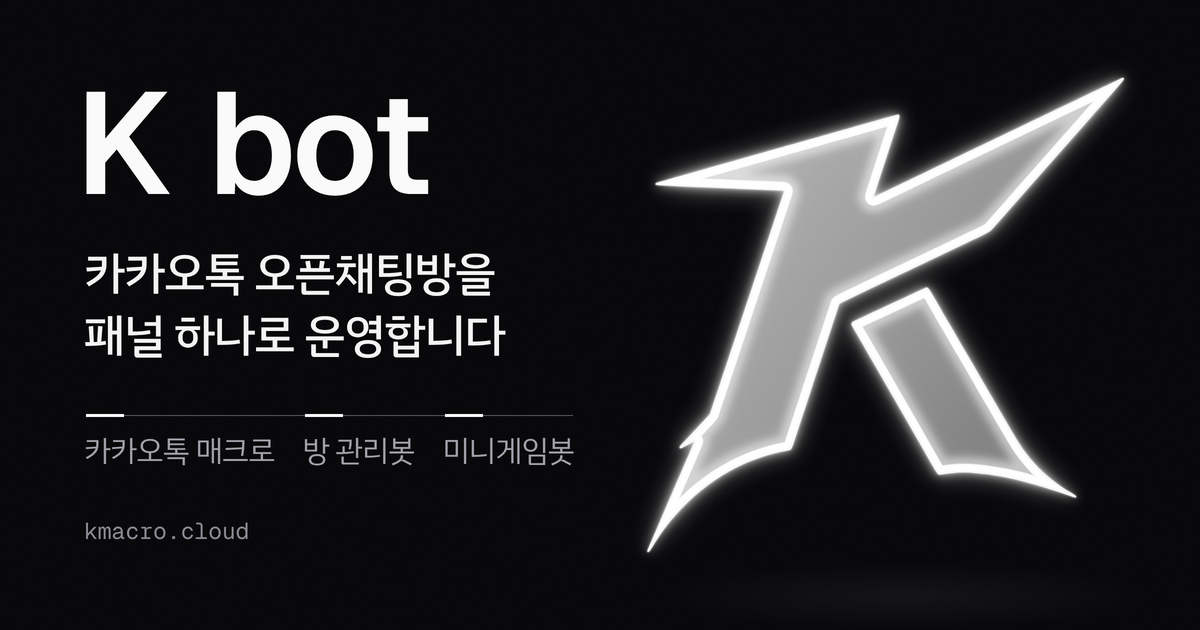
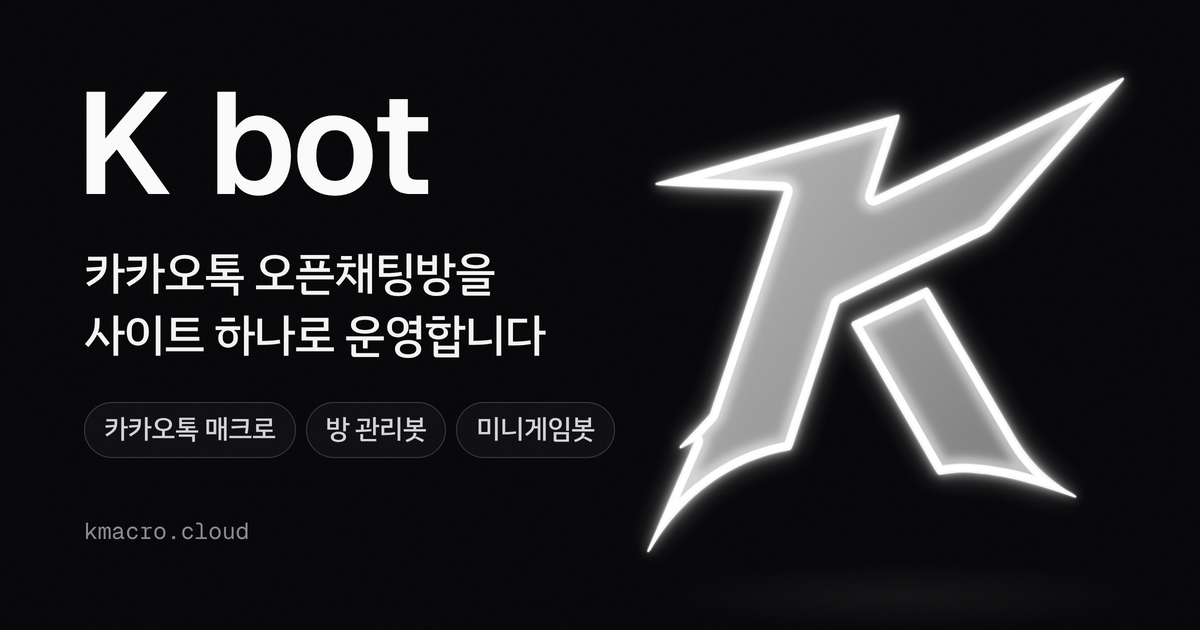
배너: 대표 문장을 '사이트 하나로'로 바꾸고, 상품 위 선·눈금을 상품 칩으로 바꾼다
상품 3종 위 헤어라인과 흰 눈금은 무엇을 뜻하는지 드러나지 않았다.
사이트의 태그처럼 테두리 칩 3개로 보여 준다. og:image:alt 와 docs/BRAND.md 문구도 맞춘다.

Claude-Session: https://claude.ai/code/session_01Vss4uo2XxVbBaKSARE7Q7U

Changed region(s): [[0.0617, 0.6333, 0.4933, 0.754], [0.0617, 0.4825, 0.4625, 0.573]]

diff --git a/public/account.html b/public/account.html
@@ -15,7 +15,7 @@
 <meta property="og:image:type" content="image/png">
 <meta property="og:image:width" content="1200">
 <meta property="og:image:height" content="630">
-<meta property="og:image:alt" content="K bot — 카카오톡 오픈채팅방을 패널 하나로 운영합니다. 카카오톡 매크로 · 방 관리봇 · 미니게임봇">
+<meta property="og:image:alt" content="K bot — 카카오톡 오픈채팅방을 사이트 하나로 운영합니다. 카카오톡 매크로 · 방 관리봇 · 미니게임봇">
 <meta name="twitter:card" content="summary_large_image">
 <meta name="twitter:image" content="https://kmacro.cloud/og-image.png?v=1">
 <meta name="theme-color" content="#09090b">

diff --git a/public/buy.html b/public/buy.html
@@ -15,7 +15,7 @@
 <meta property="og:image:type" content="image/png">
 <meta property="og:image:width" content="1200">
 <meta property="og:image:height" content="630">
-<meta property="og:image:alt" content="K bot — 카카오톡 오픈채팅방을 패널 하나로 운영합니다. 카카오톡 매크로 · 방 관리봇 · 미니게임봇">
+<meta property="og:image:alt" content="K bot — 카카오톡 오픈채팅방을 사이트 하나로 운영합니다. 카카오톡 매크로 · 방 관리봇 · 미니게임봇">
 <meta name="twitter:card" content="summary_large_image">
 <meta name="twitter:image" content="https://kmacro.cloud/og-image.png?v=1">
 <meta name="theme-color" content="#09090b">

diff --git a/public/index.html b/public/index.html
@@ -15,7 +15,7 @@
 <meta property="og:image:type" content="image/png">
 <meta property="og:image:width" content="1200">
 <meta property="og:image:height" content="630">
-<meta property="og:image:alt" content="K bot — 카카오톡 오픈채팅방을 패널 하나로 운영합니다. 카카오톡 매크로 · 방 관리봇 · 미니게임봇">
+<meta property="og:image:alt" content="K bot — 카카오톡 오픈채팅방을 사이트 하나로 운영합니다. 카카오톡 매크로 · 방 관리봇 · 미니게임봇">
 <meta name="twitter:card" content="summary_large_image">
 <meta name="twitter:image" content="https://kmacro.cloud/og-image.png?v=1">
 <meta name="theme-color" content="#09090b">

diff --git a/public/login.html b/public/login.html
@@ -15,7 +15,7 @@
 <meta property="og:image:type" content="image/png">
 <meta property="og:image:width" content="1200">
 <meta property="og:image:height" content="630">
-<meta property="og:image:alt" content="K bot — 카카오톡 오픈채팅방을 패널 하나로 운영합니다. 카카오톡 매크로 · 방 관리봇 · 미니게임봇">
+<meta property="og:image:alt" content="K bot — 카카오톡 오픈채팅방을 사이트 하나로 운영합니다. 카카오톡 매크로 · 방 관리봇 · 미니게임봇">
 <meta name="twitter:card" content="summary_large_image">
 <meta name="twitter:image" content="https://kmacro.cloud/og-image.png?v=1">
 <meta name="theme-color" content="#09090b">

diff --git a/public/order.html b/public/order.html
@@ -15,7 +15,7 @@
 <meta property="og:image:type" content="image/png">
 <meta property="og:image:width" content="1200">
 <meta property="og:image:height" content="630">
-<meta property="og:image:alt" content="K bot — 카카오톡 오픈채팅방을 패널 하나로 운영합니다. 카카오톡 매크로 · 방 관리봇 · 미니게임봇">
+<meta property="og:image:alt" content="K bot — 카카오톡 오픈채팅방을 사이트 하나로 운영합니다. 카카오톡 매크로 · 방 관리봇 · 미니게임봇">
 <meta name="twitter:card" content="summary_large_image">
 <meta name="twitter:image" content="https://kmacro.cloud/og-image.png?v=1">
 <meta name="theme-color" content="#09090b">

diff --git a/public/panel.html b/public/panel.html
@@ -14,7 +14,7 @@
 <meta property="og:image:type" content="image/png">
 <meta property="og:image:width" content="1200">
 <meta property="og:image:height" content="630">
-<meta property="og:image:alt" content="K bot — 카카오톡 오픈채팅방을 패널 하나로 운영합니다. 카카오톡 매크로 · 방 관리봇 · 미니게임봇">
+<meta property="og:image:alt" content="K bot — 카카오톡 오픈채팅방을 사이트 하나로 운영합니다. 카카오톡 매크로 · 방 관리봇 · 미니게임봇">
 <meta name="twitter:card" content="summary_large_image">
 <meta name="twitter:image" content="https://kmacro.cloud/og-image.png?v=1">
 <meta name="theme-color" content="#09090b">

diff --git a/public/signup.html b/public/signup.html
@@ -15,7 +15,7 @@
 <meta property="og:image:type" content="image/png">
 <meta property="og:image:width" content="1200">
 <meta property="og:image:height" content="630">
-<meta property="og:image:alt" content="K bot — 카카오톡 오픈채팅방을 패널 하나로 운영합니다. 카카오톡 매크로 · 방 관리봇 · 미니게임봇">
+<meta property="og:image:alt" content="K bot — 카카오톡 오픈채팅방을 사이트 하나로 운영합니다. 카카오톡 매크로 · 방 관리봇 · 미니게임봇">
 <meta name="twitter:card" content="summary_large_image">
 <meta name="twitter:image" content="https://kmacro.cloud/og-image.png?v=1">
 <meta name="theme-color" content="#09090b">

diff --git a/public/support.html b/public/support.html
@@ -15,7 +15,7 @@
 <meta property="og:image:type" content="image/png">
 <meta property="og:image:width" content="1200">
 <meta property="og:image:height" content="630">
-<meta property="og:image:alt" content="K bot — 카카오톡 오픈채팅방을 패널 하나로 운영합니다. 카카오톡 매크로 · 방 관리봇 · 미니게임봇">
+<meta property="og:image:alt" content="K bot — 카카오톡 오픈채팅방을 사이트 하나로 운영합니다. 카카오톡 매크로 · 방 관리봇 · 미니게임봇">
 <meta name="twitter:card" content="summary_large_image">
 <meta name="twitter:image" content="https://kmacro.cloud/og-image.png?v=1">
 <meta name="theme-color" content="#09090b">
